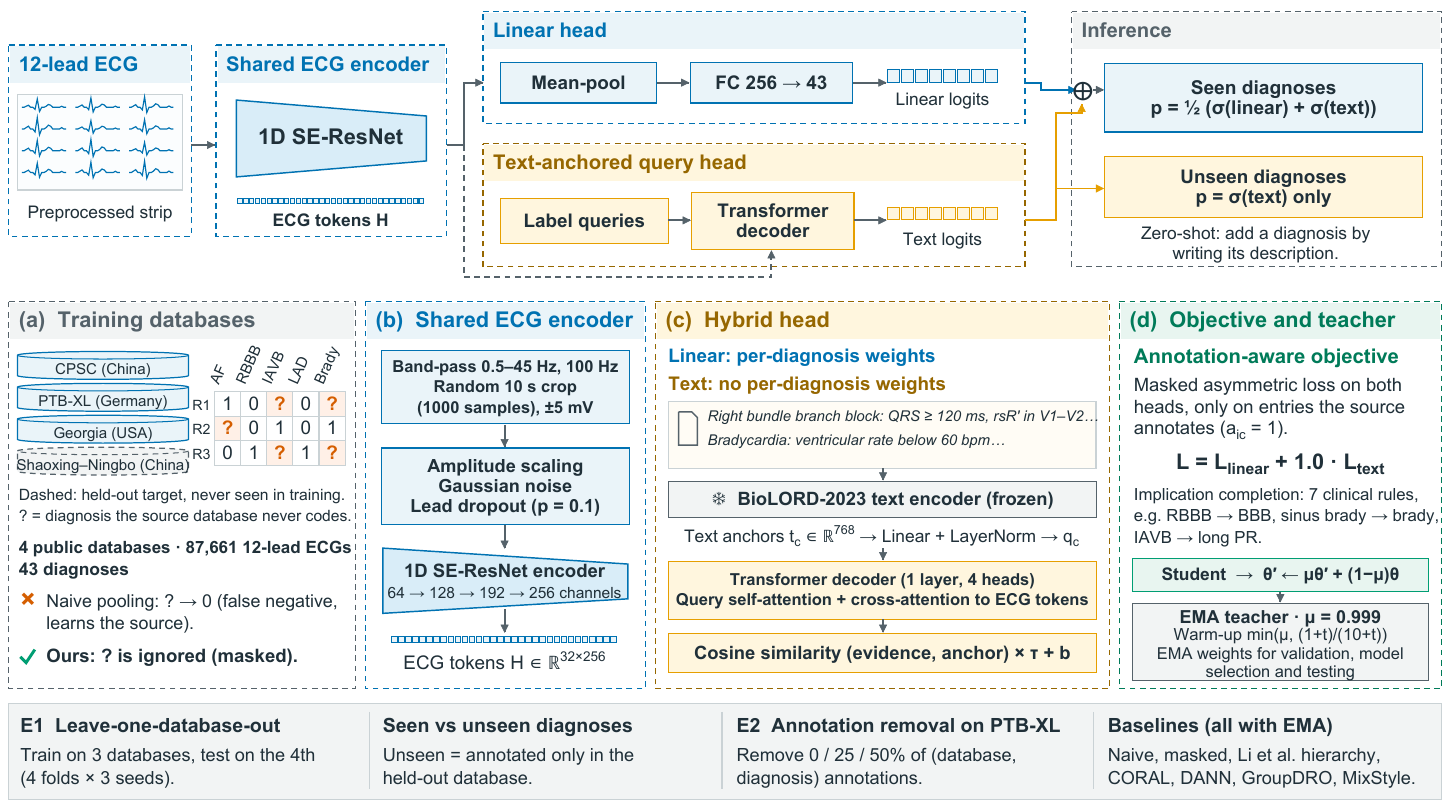
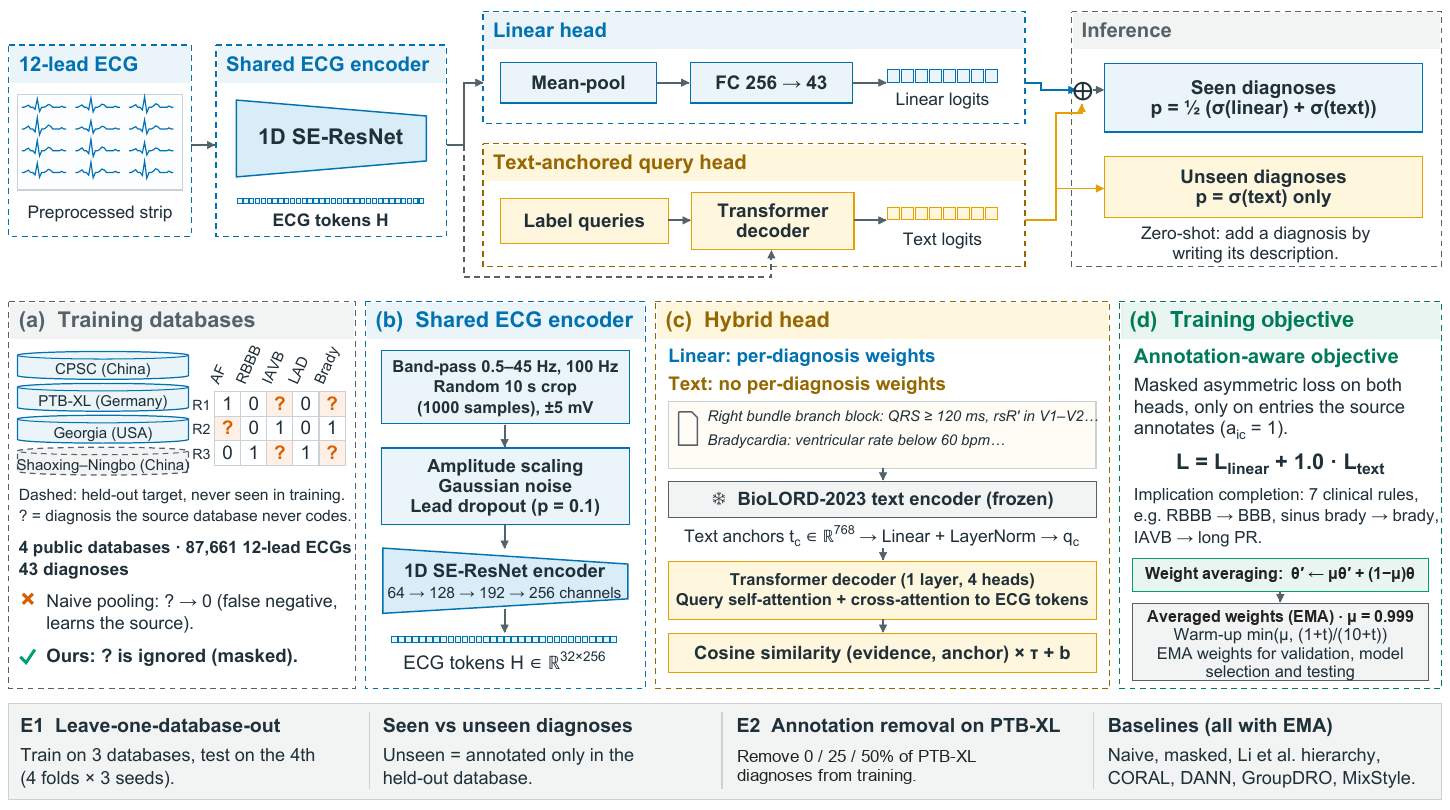
Fix methodology figure labels and show it on a landscape page

Changed region(s): [[0.7759, 0.679, 0.9931, 0.7716], [0.4966, 0.9259, 0.7138, 0.9877], [0.8069, 0.3704, 0.9621, 0.4012]]

diff --git a/paper/sec_methods.tex b/paper/sec_methods.tex
@@ -2,11 +2,11 @@
 \section{Methods}\label{sec:methods}
 %=====================================================================
 
-\begin{figure}[!htbp]
+\begin{sidewaysfigure}
 \centering
-\IfFileExists{figures/fig_method_hybrid.pdf}{\includegraphics[width=\textwidth]{figures/fig_method_hybrid.pdf}}{\IfFileExists{figures/fig_method_hybrid.png}{\includegraphics[width=\textwidth]{figures/fig_method_hybrid.png}}{\fbox{\parbox{0.9\textwidth}{\centering\vspace{2cm}Methodology figure (figures/fig\_method\_hybrid.pdf)\vspace{2cm}}}}}
-\caption{Overview of the approach. Top row: data flow from the 12-lead ECG through the shared encoder and the two heads to inference. (a) Training databases annotate different diagnosis vocabularies; an entry that a database never codes (``?'') is unknown, not negative, and naive pooling treats it as a negative. (b) A one-dimensional SE-ResNet encodes a 10\,s, 100\,Hz 12-lead recording into $T=32$ tokens. (c) Two heads read the same tokens: a linear head with one weight vector per diagnosis, and a text-anchored label-query head in which frozen clinical description embeddings (BioLORD-2023) act as queries that cross-attend to the tokens and are scored by cosine similarity, so that it has no diagnosis-specific weights. Diagnoses supervised in training are scored by the mean of the two probabilities; diagnoses never supervised are scored by the text head alone. (d) Both heads are trained with the same asymmetric loss restricted to source-annotated entries, after completion of positives through seven clinical implication rules; an exponential moving average of the weights (labelled ``EMA teacher'') is validated, selected and tested; it produces no pseudo-labels. The bottom strip lists the evaluation protocols.}\label{fig:method}
-\end{figure}
+\IfFileExists{figures/fig_method_hybrid.pdf}{\includegraphics[width=\textwidth]{figures/fig_method_hybrid.pdf}}{\IfFileExists{figures/fig_method_hybrid.png}{\includegraphics[width=\textheight]{figures/fig_method_hybrid.png}}{\fbox{\parbox{0.9\textwidth}{\centering\vspace{2cm}Methodology figure (figures/fig\_method\_hybrid.pdf)\vspace{2cm}}}}}
+\caption{Overview of the approach. Top row: data flow from the 12-lead ECG through the shared encoder and the two heads to inference. (a) Training databases annotate different diagnosis vocabularies; an entry that a database never codes (``?'') is unknown, not negative, and naive pooling treats it as a negative. (b) A one-dimensional SE-ResNet encodes a 10\,s, 100\,Hz 12-lead recording into $T=32$ tokens. (c) Two heads read the same tokens: a linear head with one weight vector per diagnosis, and a text-anchored label-query head in which frozen clinical description embeddings (BioLORD-2023) act as queries that cross-attend to the tokens and are scored by cosine similarity, so that it has no diagnosis-specific weights. Diagnoses supervised in training are scored by the mean of the two probabilities; diagnoses never supervised are scored by the text head alone. (d) Both heads are trained with the same asymmetric loss restricted to source-annotated entries, after completion of positives through seven clinical implication rules; an exponential moving average of the weights is validated, selected and tested. The bottom strip lists the evaluation protocols.}\label{fig:method}
+\end{sidewaysfigure}
 
 \subsection{Overview}\label{sec:overview}
 The method has four components, summarized in Table~\ref{tab:components}, each tied to one aspect of the problem. A one-dimensional residual encoder maps a 12-lead recording to a short sequence of tokens (Section~\ref{sec:encoder}). A \emph{hybrid head} reads these tokens twice (Section~\ref{sec:head}): a conventional linear head provides the discriminative capacity of per-diagnosis weights on diagnoses that the training sources annotate, and a text-anchored label-query head scores every diagnosis from a frozen embedding of its clinical description, so that diagnoses without any training label remain scorable (RQ3). An annotation-aware objective restricts the loss of both heads to entries that the record's source annotates and completes positives through implication rules (RQ1, Section~\ref{sec:objective}). Finally, model selection and inference use an exponential moving average of the weights, which stabilizes the selected model across the distribution shift between validation sources and the held-out database (RQ2, Section~\ref{sec:train}). Section~\ref{sec:why} formalizes why the naive pooled objective is misspecified and motivates the masked objective. Notation is summarized in Table~\ref{tab:notation}. The design was arrived at through a development process with selection rules fixed in advance; it is reported, with its negative intermediate results and one deviation from those rules, in Appendix~\ref{secA2}.
